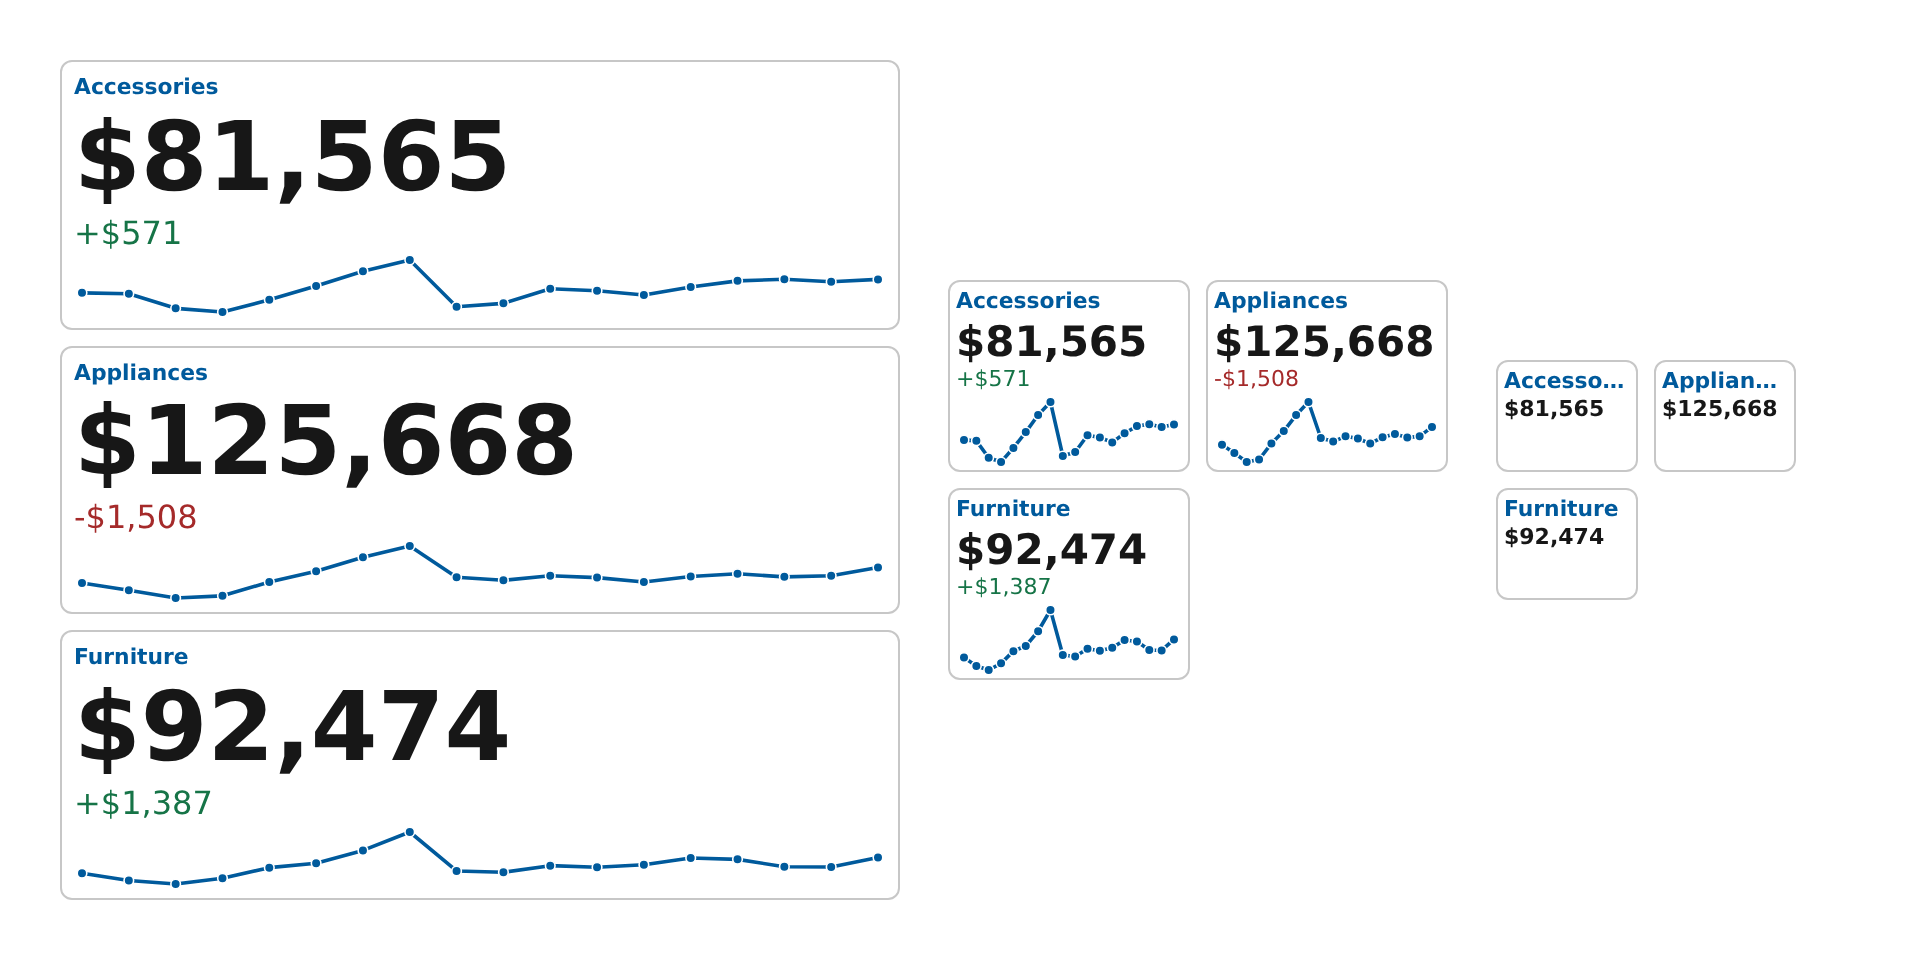
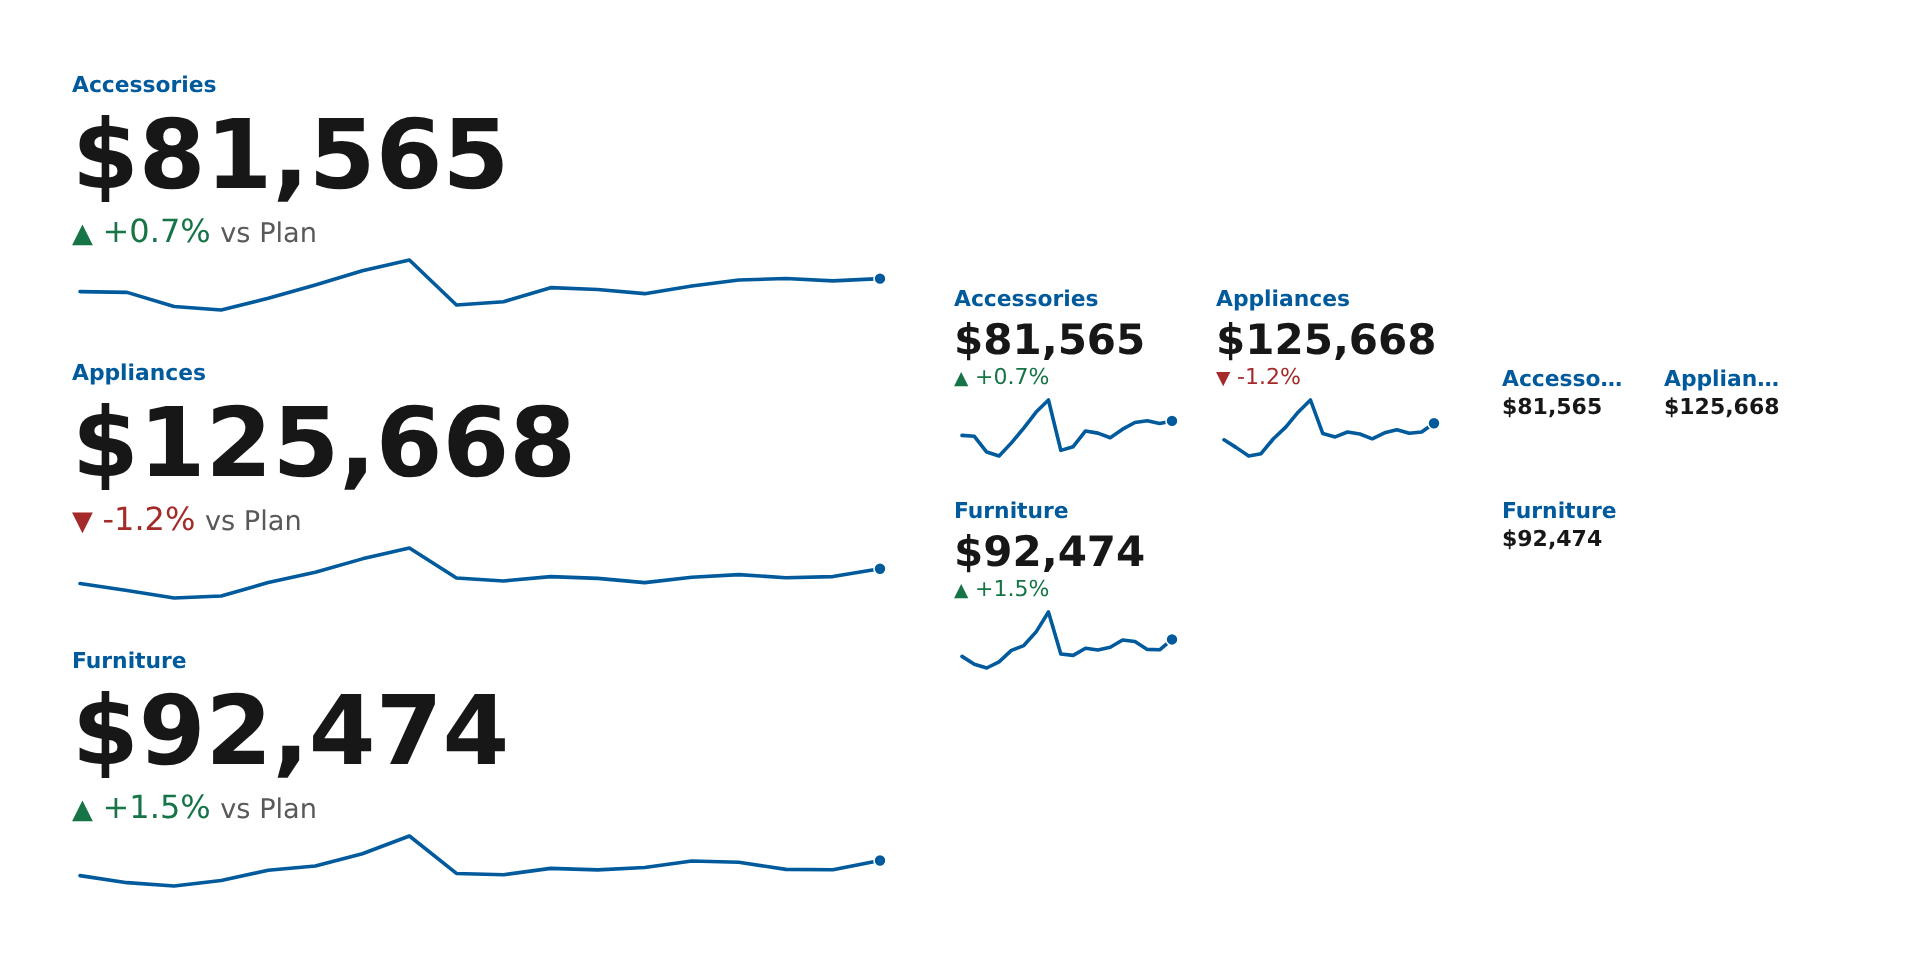
Refresh the Tm Headline Cards listing for 0.2.0: Styling panel, change status, trend types

diff --git a/listing/products/tm-headline-cards/docs/property-panel.md b/listing/products/tm-headline-cards/docs/property-panel.md
@@ -7,15 +7,27 @@ order: 20
 ## Data
 
 - **Category** (dimension): one card per value.
-- **Time** (dimension): the order of the trend line. The chart sorts it newest first to read the latest values, and draws the line oldest to newest.
-- **Value** (measure): the headline and the trend line.
+- **Time** (dimension): the order of the trend. The chart sorts it newest first to read the latest values, and draws the trend oldest to newest.
+- **Value** (measure): the headline and the trend.
 - **Comparison** (measure, optional): the change shown under the headline.
 
-The cards follow the Category order in the latest period.
+## Appearance
+
+- **Layout**: the most columns, **Stacked** or **Compact** cards, the text alignment, and the card order: data order, by value, or by change.
+- **Labels**: show the category name at the top or the bottom, and the measure name under the headline.
+- **Headline**: **Responsive** fits the largest size that fits; **Fixed** keeps the Styling font size. **Abbreviate** uses the app's number abbreviation when the number does not fit, or always.
+- **Comparison**: show the change as a **Difference**, a **Percent change** or **Both**. Choose the percent decimals, which direction is good (**Higher is better**, **Lower is better** or **Neutral**), the **Triangle ▲▼** or **Arrow ↑↓** indicator, a neutral band in percent of the Comparison, and the change label. An empty label shows "vs" and the Comparison name. When the Comparison is zero, the percent shows a dash.
+- **Trend**: **Line**, **Area**, **Columns** or **None**. Markers for the latest point, the latest with the highest and lowest, or every point. A scale per card or shared by all cards, a start at zero, a **Comparison** or **Average** reference line, missing periods as a gap, connected or as zero, and the number of latest periods shown.
+- **Status colour**: the change always takes the good or bad colour. Also colour the headline or the card accent bar.
 
 ## Styling
 
-- **Comparison display**: **Absolute difference** shows Value minus Comparison in the Value format. **Percent change** shows the change as a percent of the Comparison. When the Comparison is zero, the card shows a dash instead of a percent.
-- **Background color**, **Font color**, **Font** and **Font size** override the app theme.
-- **Header color** sets the card names and the trend line.
-- **Grid color** sets the card borders.
+The native Styling panel. **General** sets the title, subtitle, footnote, background and border of the object. **Chart** sets:
+
+- **Cards**: **Plain** (the default), **Outlined** or **Filled**, the border colour and width, the corner radius, the padding, and an accent bar on the left or top with its colour.
+- **Headline**: the font size, colour and weight.
+- **Category name**: the font size and colour.
+- **Change**: the font size, the **Green and red** or **Blue and orange** colours, and your own good, bad and neutral colours.
+- **Trend**: the colour, the line width, the area opacity and the marker size.
+
+A colour you leave unset follows the app theme.

diff --git a/listing/products/tm-headline-cards/docs/getting-started.md b/listing/products/tm-headline-cards/docs/getting-started.md
@@ -9,11 +9,12 @@ Add Tm Headline Cards to a sheet and give it data. These steps use the Qlik Clou
 1. Open the sheet and choose **Edit sheet**.
 2. Open the Custom objects panel and drag **Tm Headline Cards** onto the sheet.
 3. Add the **Category** dimension. Each value gets one card.
-4. Add the **Time** dimension, such as a month or a date. It orders the trend line.
+4. Add the **Time** dimension, such as a month or a date. It orders the trend.
 5. Add the **Value** measure. The card headline is its latest value.
 6. Optionally add the **Comparison** measure, such as a plan or last year's value. The card then shows the change.
-7. Choose **Done editing**.
+7. Optionally open **Appearance** for the layout, the change and the trend, and **Styling** for the look of the cards.
+8. Choose **Done editing**.
 
 ## Limits
 
-The chart shows up to 24 categories. With more, it shows a notice instead of a partial set of cards; filter the sheet to 24 or fewer. Each trend line shows the latest 60 points, and a notice says when older points are hidden.
+The chart shows up to 24 categories. With more, it shows a notice instead of a partial set of cards; filter the sheet to 24 or fewer. Each trend shows the latest 60 periods, and a notice says when older periods are hidden. All cards share the same periods, so a period a category lacks shows as a gap.

diff --git a/listing/products/tm-headline-cards/docs/good-to-know.md b/listing/products/tm-headline-cards/docs/good-to-know.md
@@ -6,7 +6,9 @@ order: 40
 
 Tm Headline Cards needs two dimensions, Category and Time, and one or two measures.
 
-On a small object the cards drop the trend line first, then the change. The headline stays: it shrinks, then switches to the app's number abbreviation, such as 1.2G, rather than being cut off.
+On a small object the cards first drop the change label and the indicator, which need width, then the trend, then the change. The headline stays: it shrinks, then switches to the app's number abbreviation, such as 1.2G, rather than being cut off.
+
+Charts made with 0.1 keep their change display when you upgrade. Their cards become plain, without the fixed border; choose **Outlined** in the Styling panel to bring a border back.
 
 Story snapshots keep the data as saved.
 
